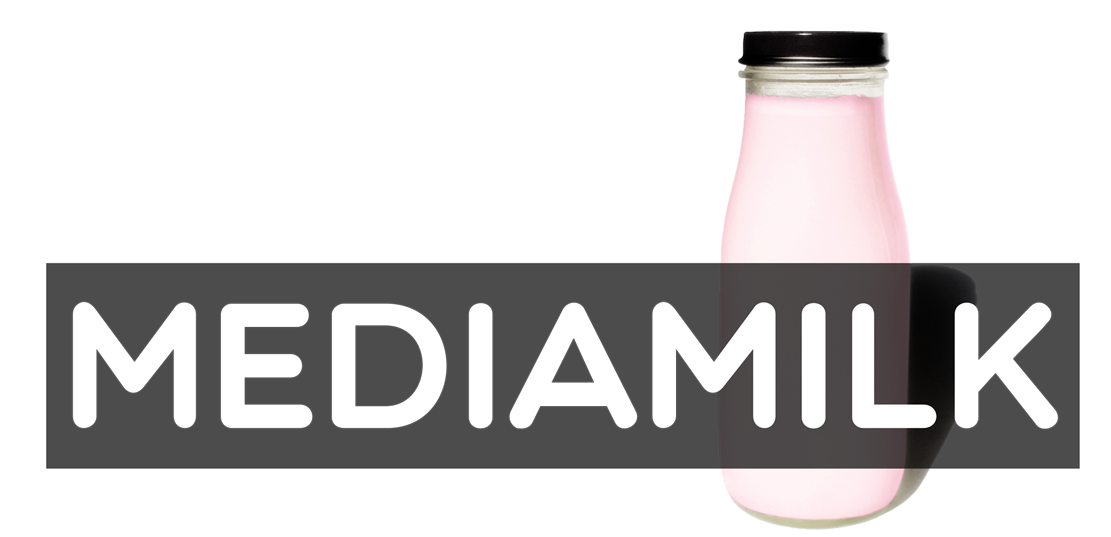
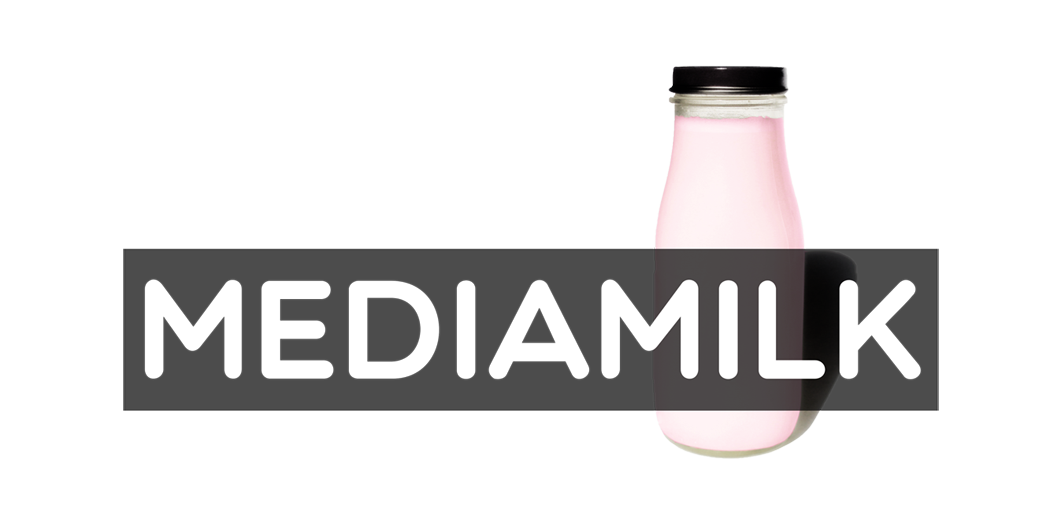
responsive image

Changed region(s): [[0.0305, 0.0592, 0.9752, 1.0]]

diff --git a/app/assets/stylesheets/style.css b/app/assets/stylesheets/style.css
@@ -305,7 +305,11 @@ hr {
 	width:100%;
 	position:relative;
 	
-	background: url(/assets/mm-1.png) no-repeat center;
+	background: url(/assets/mm-1.png) no-repeat center center fixed;
+  -webkit-background-size: cover;
+  -moz-background-size: cover;
+  -o-background-size: cover;
+  background-size: 80%;
 }
 
 #intro.intro {
